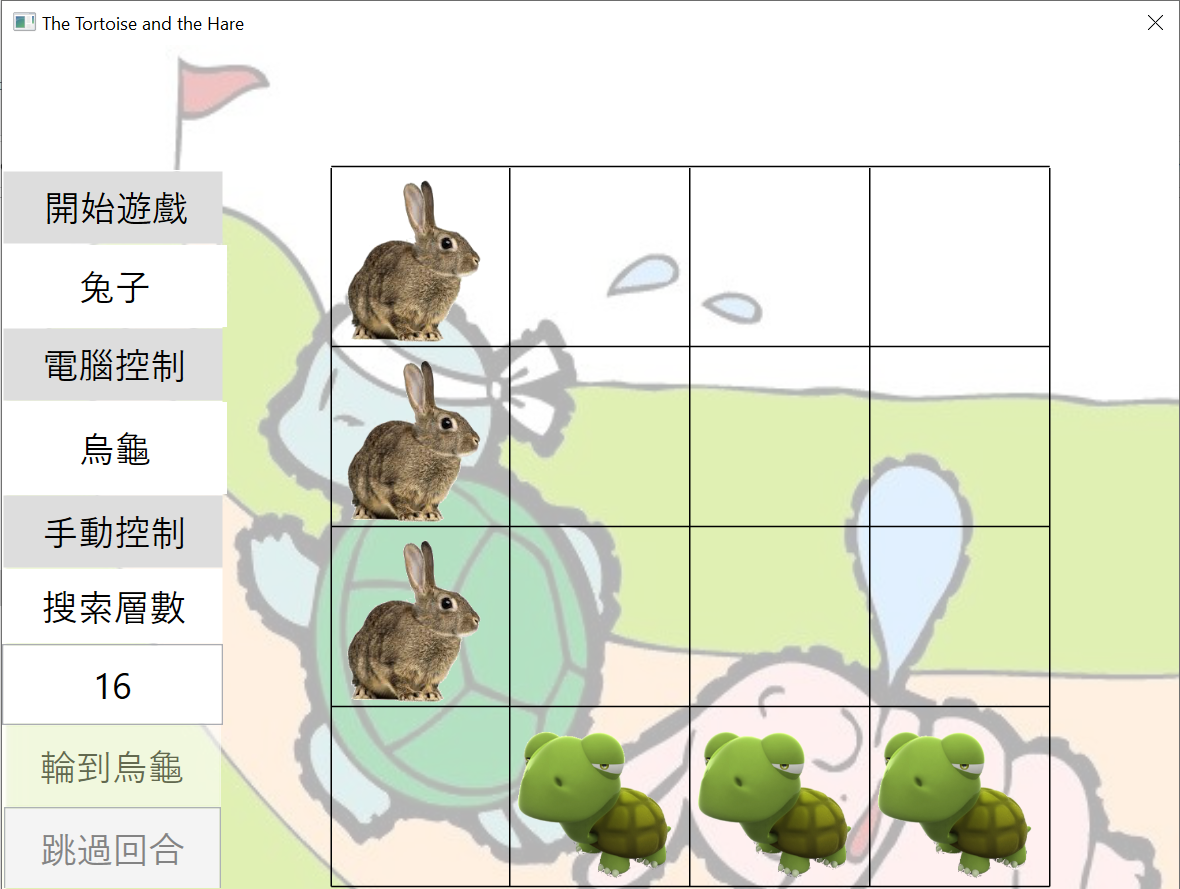
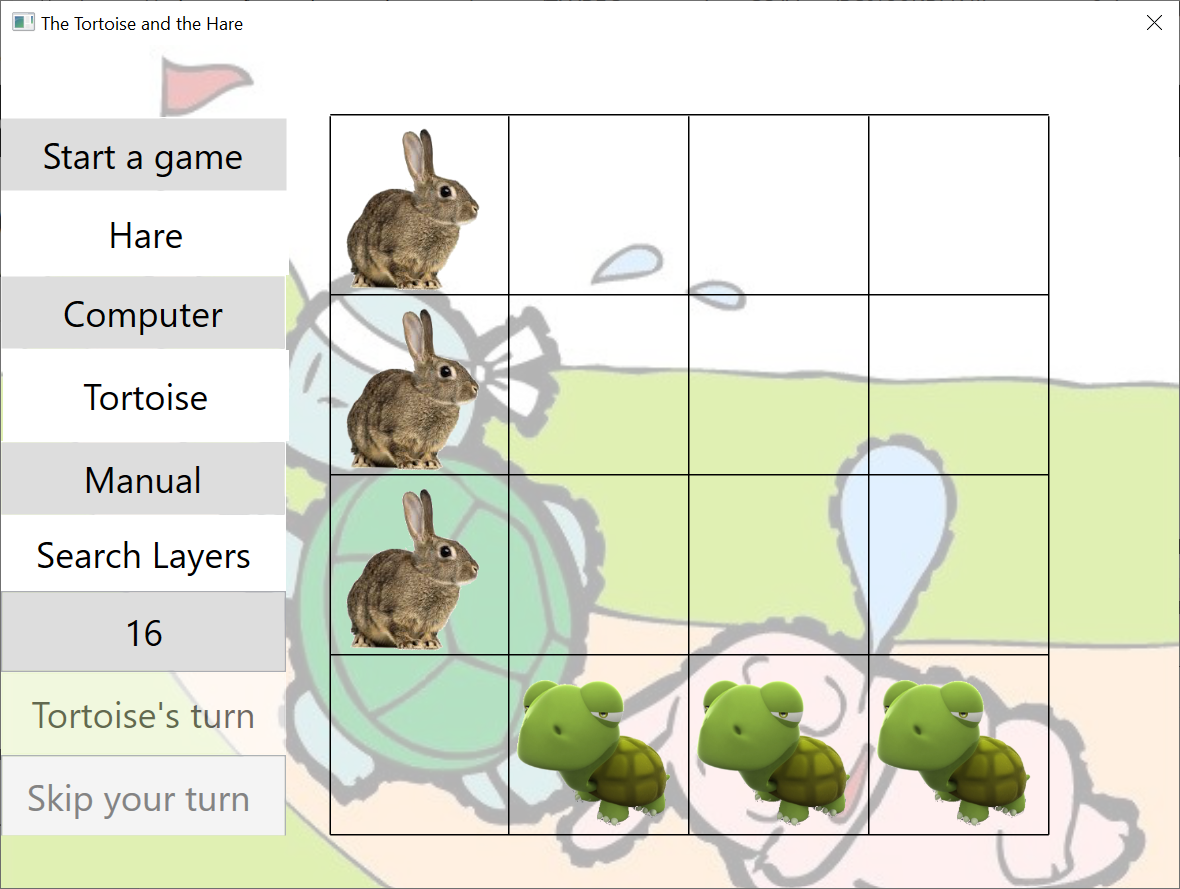
Update README.md

diff --git a/THpuzzle/MainWindow.xaml b/THpuzzle/MainWindow.xaml
@@ -7,8 +7,12 @@
         mc:Ignorable="d"
         Title="The Tortoise and the Hare" Height="600" Width="800" ResizeMode="NoResize">
     <Grid Width="800" Height="600">
-        <Image Height="600" HorizontalAlignment="Left" Name="image1" Stretch="Fill" VerticalAlignment="Top" Width="800" Source="images/background.jpg" Opacity="0.3" />
-        <Grid  Name="MAP" Height="530" Width="530" LayoutUpdated="MAP_LayoutUpdated" Margin="208,12,40,19">
+        <Grid.ColumnDefinitions>
+            <ColumnDefinition Width="41*"/>
+            <ColumnDefinition Width="39*"/>
+        </Grid.ColumnDefinitions>
+        <Image Height="571" HorizontalAlignment="Left" Name="image1" Stretch="Fill" VerticalAlignment="Top" Width="800" Source="images/background.jpg" Opacity="0.3" Grid.ColumnSpan="2" Margin="-10,0,0,0" />
+        <Grid  Name="MAP" Height="530" Width="530" LayoutUpdated="MAP_LayoutUpdated" Margin="219,-3,51,73" Grid.ColumnSpan="2">
             <Grid.Resources>
                 <Style x:Key = "hiddenButton" TargetType ="Button">
                     <Setter Property = "Opacity" Value="0"/>
@@ -107,7 +111,7 @@
             <Image Name="Hr3" Style="{StaticResource HareImage}"  Grid.Column="0" Grid.Row="3" />
 
         </Grid>
-        <StackPanel Height="370" HorizontalAlignment="Left" Name="Controlpanel" VerticalAlignment="Top" Width="190" Margin="0,83,0,0">
+        <StackPanel Height="370" HorizontalAlignment="Left" Name="Controlpanel" VerticalAlignment="Top" Width="190" Margin="0,48,0,0">
             <Button Content="Start a game" Name="button17" FontSize="24" Click="GameStart" Height="50" BorderBrush="White" Margin="-2,0,-1,0" />
             <TextBox Height="55" Name="textBox1" Text="Hare" FontSize="24" TextAlignment="Center" VerticalContentAlignment="Center" BorderBrush="White" IsReadOnly="True" BorderThickness="0" Margin="1,0,-2,0" />
             <Button  Content ="Computer" FontSize="24" Name="HareComputer" Height="50" Click="HareComputer_Click" BorderBrush="White" Margin="-1,0,0,0" />
@@ -116,9 +120,9 @@
             <TextBox BorderBrush="White" FontSize="24" Height="50" IsReadOnly="True" Name="textBox6" Text="Search Layers" TextAlignment="Center" VerticalContentAlignment="Center" BorderThickness="0" />
             <TextBox FontSize="24" Height="54" IsReadOnly="False" Name="textBox7" Text="16" TextAlignment="Center" VerticalContentAlignment="Center" TextChanged="textBox7_TextChanged" MaxLength="2" AcceptsReturn="True" HorizontalAlignment="Left" Width="190" Background="#FFDDDDDD" />
         </StackPanel>
-        <StackPanel Height="109" HorizontalAlignment="Left" Margin="0,453,0,0" Name="Gamingpanel" VerticalAlignment="Top" Width="190">
+        <StackPanel Height="109" HorizontalAlignment="Left" Margin="0,418,0,0" Name="Gamingpanel" VerticalAlignment="Top" Width="190">
             <TextBox Text="Tortoise's turn" Height="55" x:Name="Info" IsReadOnly="True" BorderBrush="White" TextAlignment="Center" FontSize="24" VerticalContentAlignment="Center" />
-            <Button Content="Skip your turn " FontSize="24" Height="55" x:Name="turnover" Click="turnover_Click" Margin="1,0,0,0" />
+            <Button Content="Skip your turn " FontSize="24" Height="55" x:Name="turnover" Click="turnover_Click" />
         </StackPanel>
     </Grid>
 </Window>

diff --git a/README.md b/README.md
@@ -1,14 +1,19 @@
 # The-Tortoise-and-the-Hare
 A puzzle game about the Tortoise and the Hare! Everyone knows that it comes from Aesop's fable. Now you can play as tortoises or hares and all of animals you played should reach the destination as fast as possible.
 <div align="center">
-<img src="docs/Screenshot.png" alt="img" width="50%" />
+<img src="docs/Screenshot.png" alt="img" width="75%" />
 </div>
+
+## Motivation
+It was a project competition in Artificial Intelligence course from NTNU. Your chress AI is limited to a specific time(< 3 seconds) to response in the competition.
+
+The core algorithm I designed for the game is Alpha-beta Pruning.
 
 ## How to Play
 1. Tortoises move first, and hares move next, the sequence is reapted until the game is over.
 2. You are able to move one tortoise (hare) at a time.
-3. The legal moves for hares are up, down and right. While a hare moves to rightmost grids, you can move it to outside and reach to the destination.
-4. The legal moves for tortoises are left, up and right. While a tortoise moves to topmost grids, you can move it to outside and reach to the destination.
+3. The legal moves for hares are up(↑), down(↓) and right(→). While a hare moves to rightmost grids, you can move it to outside and reach to the destination.
+4. The legal moves for tortoises are left(←), up(↑) and right(→). While a tortoise moves to topmost grids, you can move it to outside and reach to the destination.
 5. You can not jump more than one grid, and click skip button only if you are not able to move your animals.
 ## Plans and Schedules
 - [x] Change Game UI to English (from Traditional Chinese)
